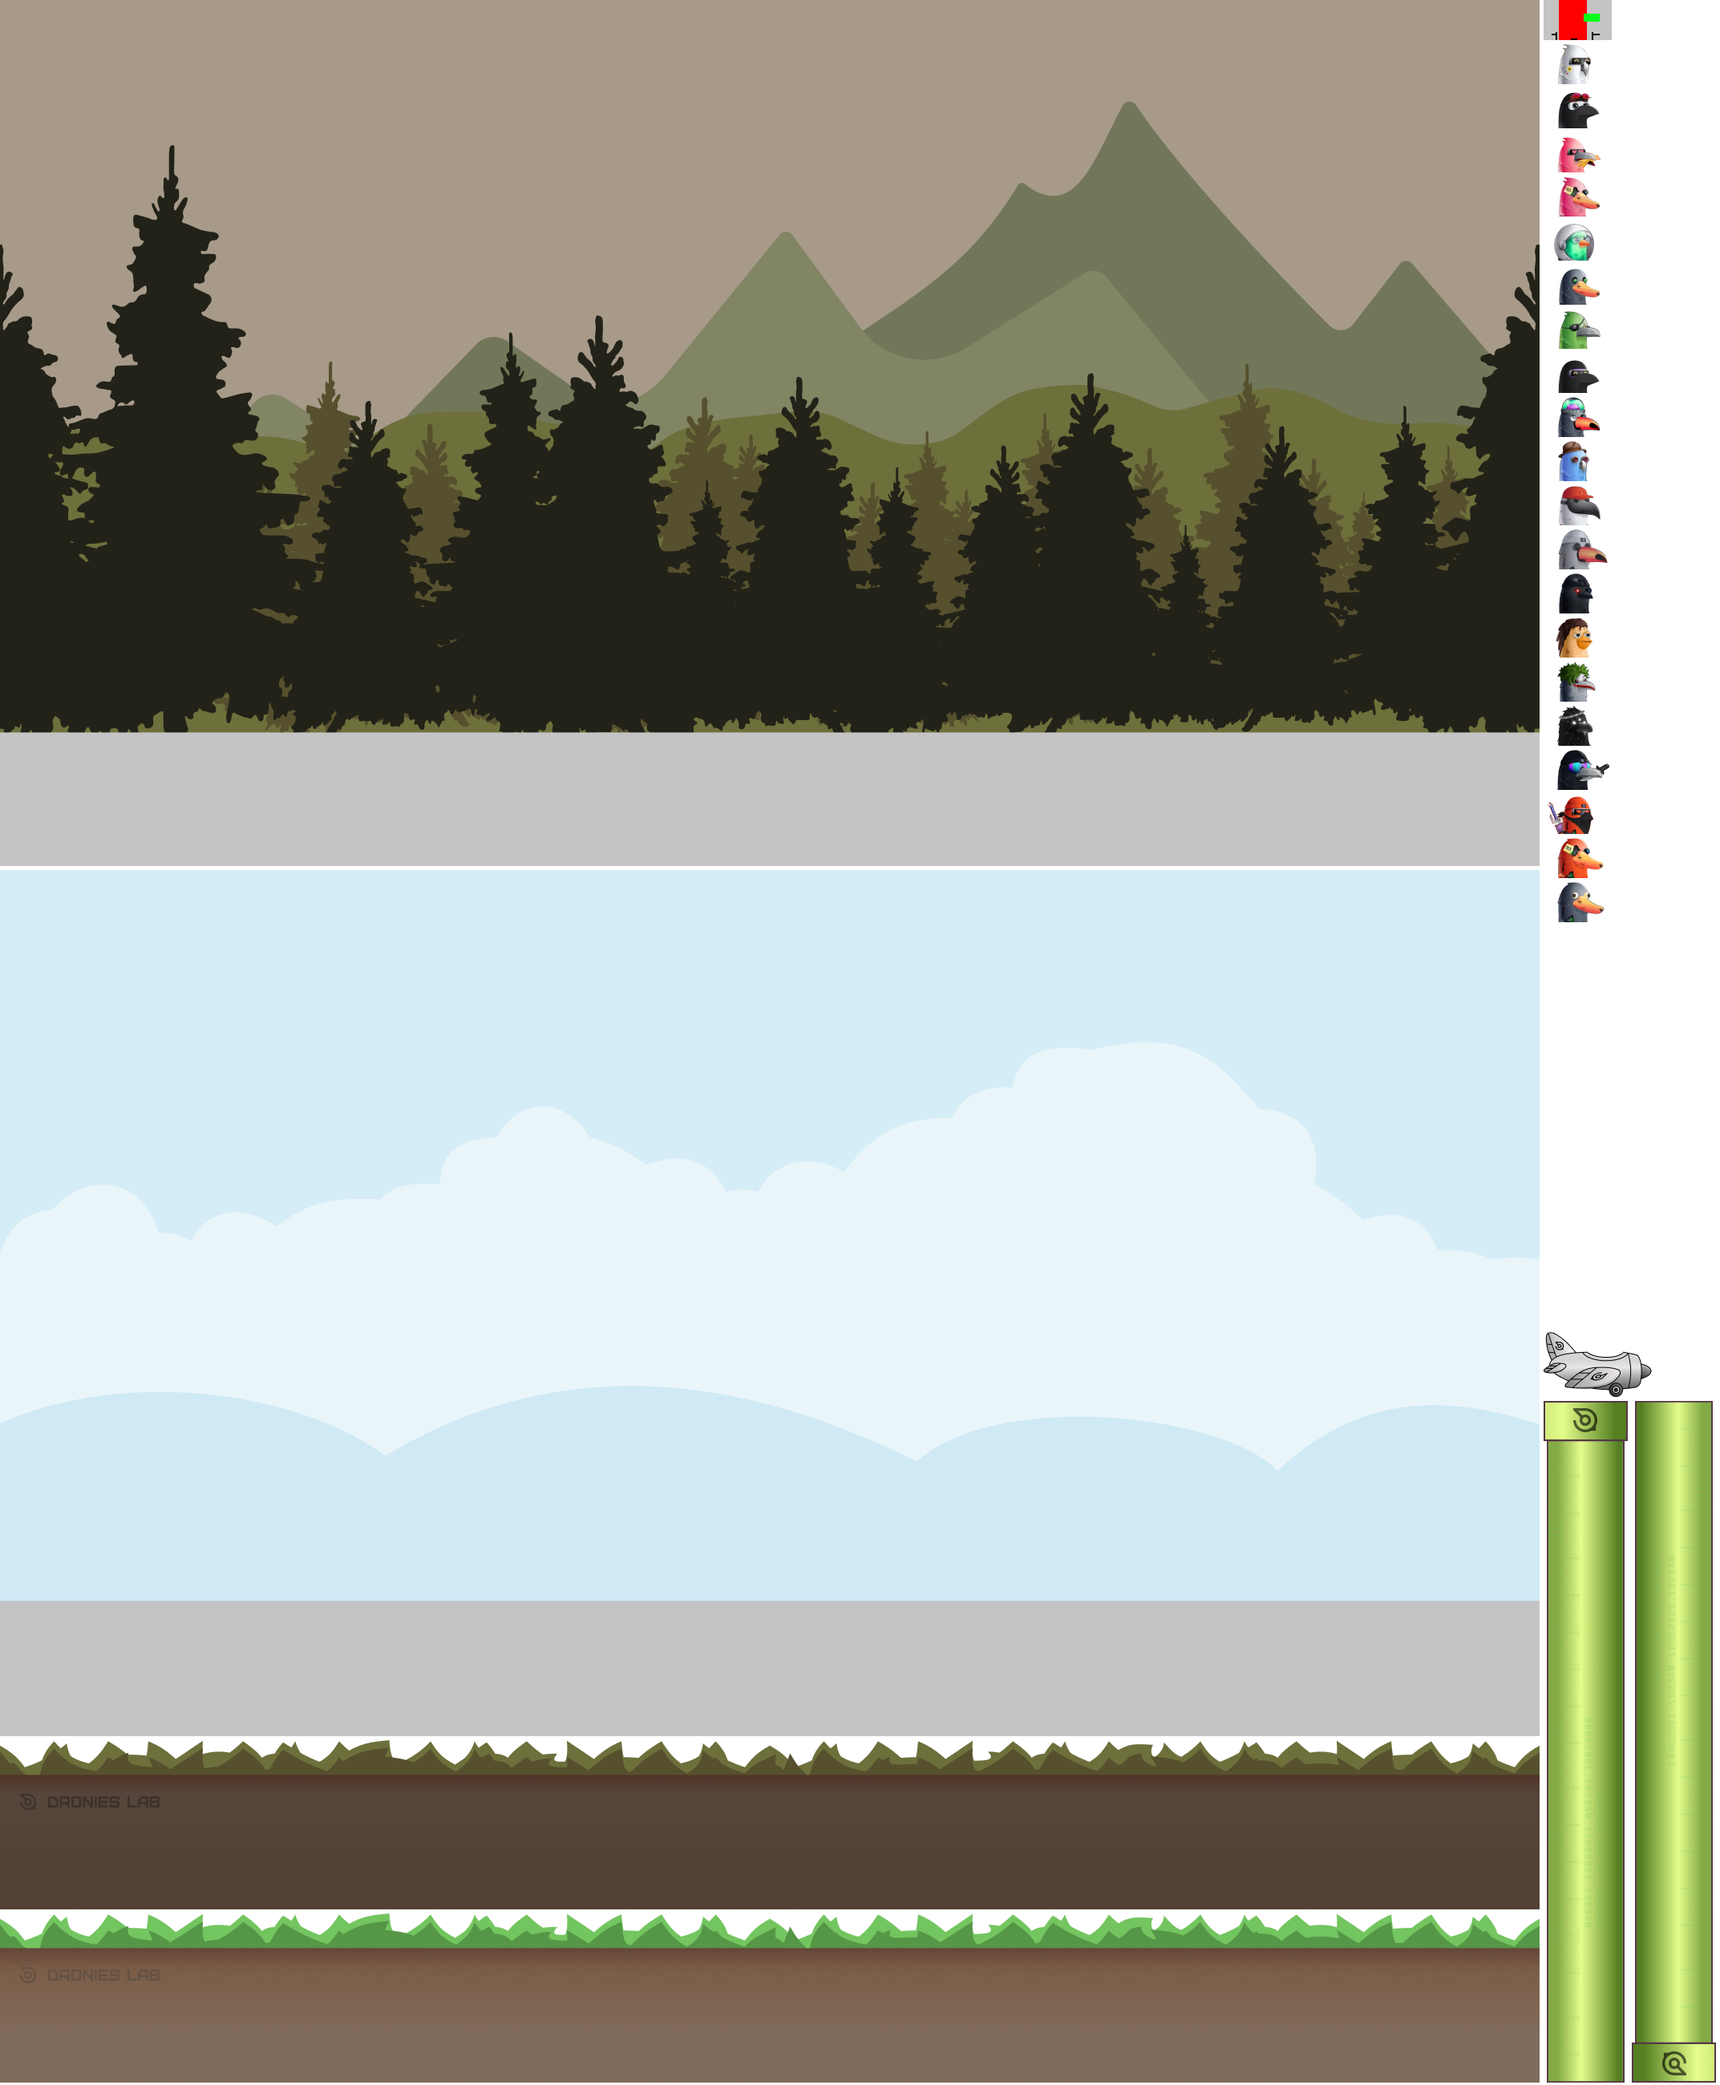
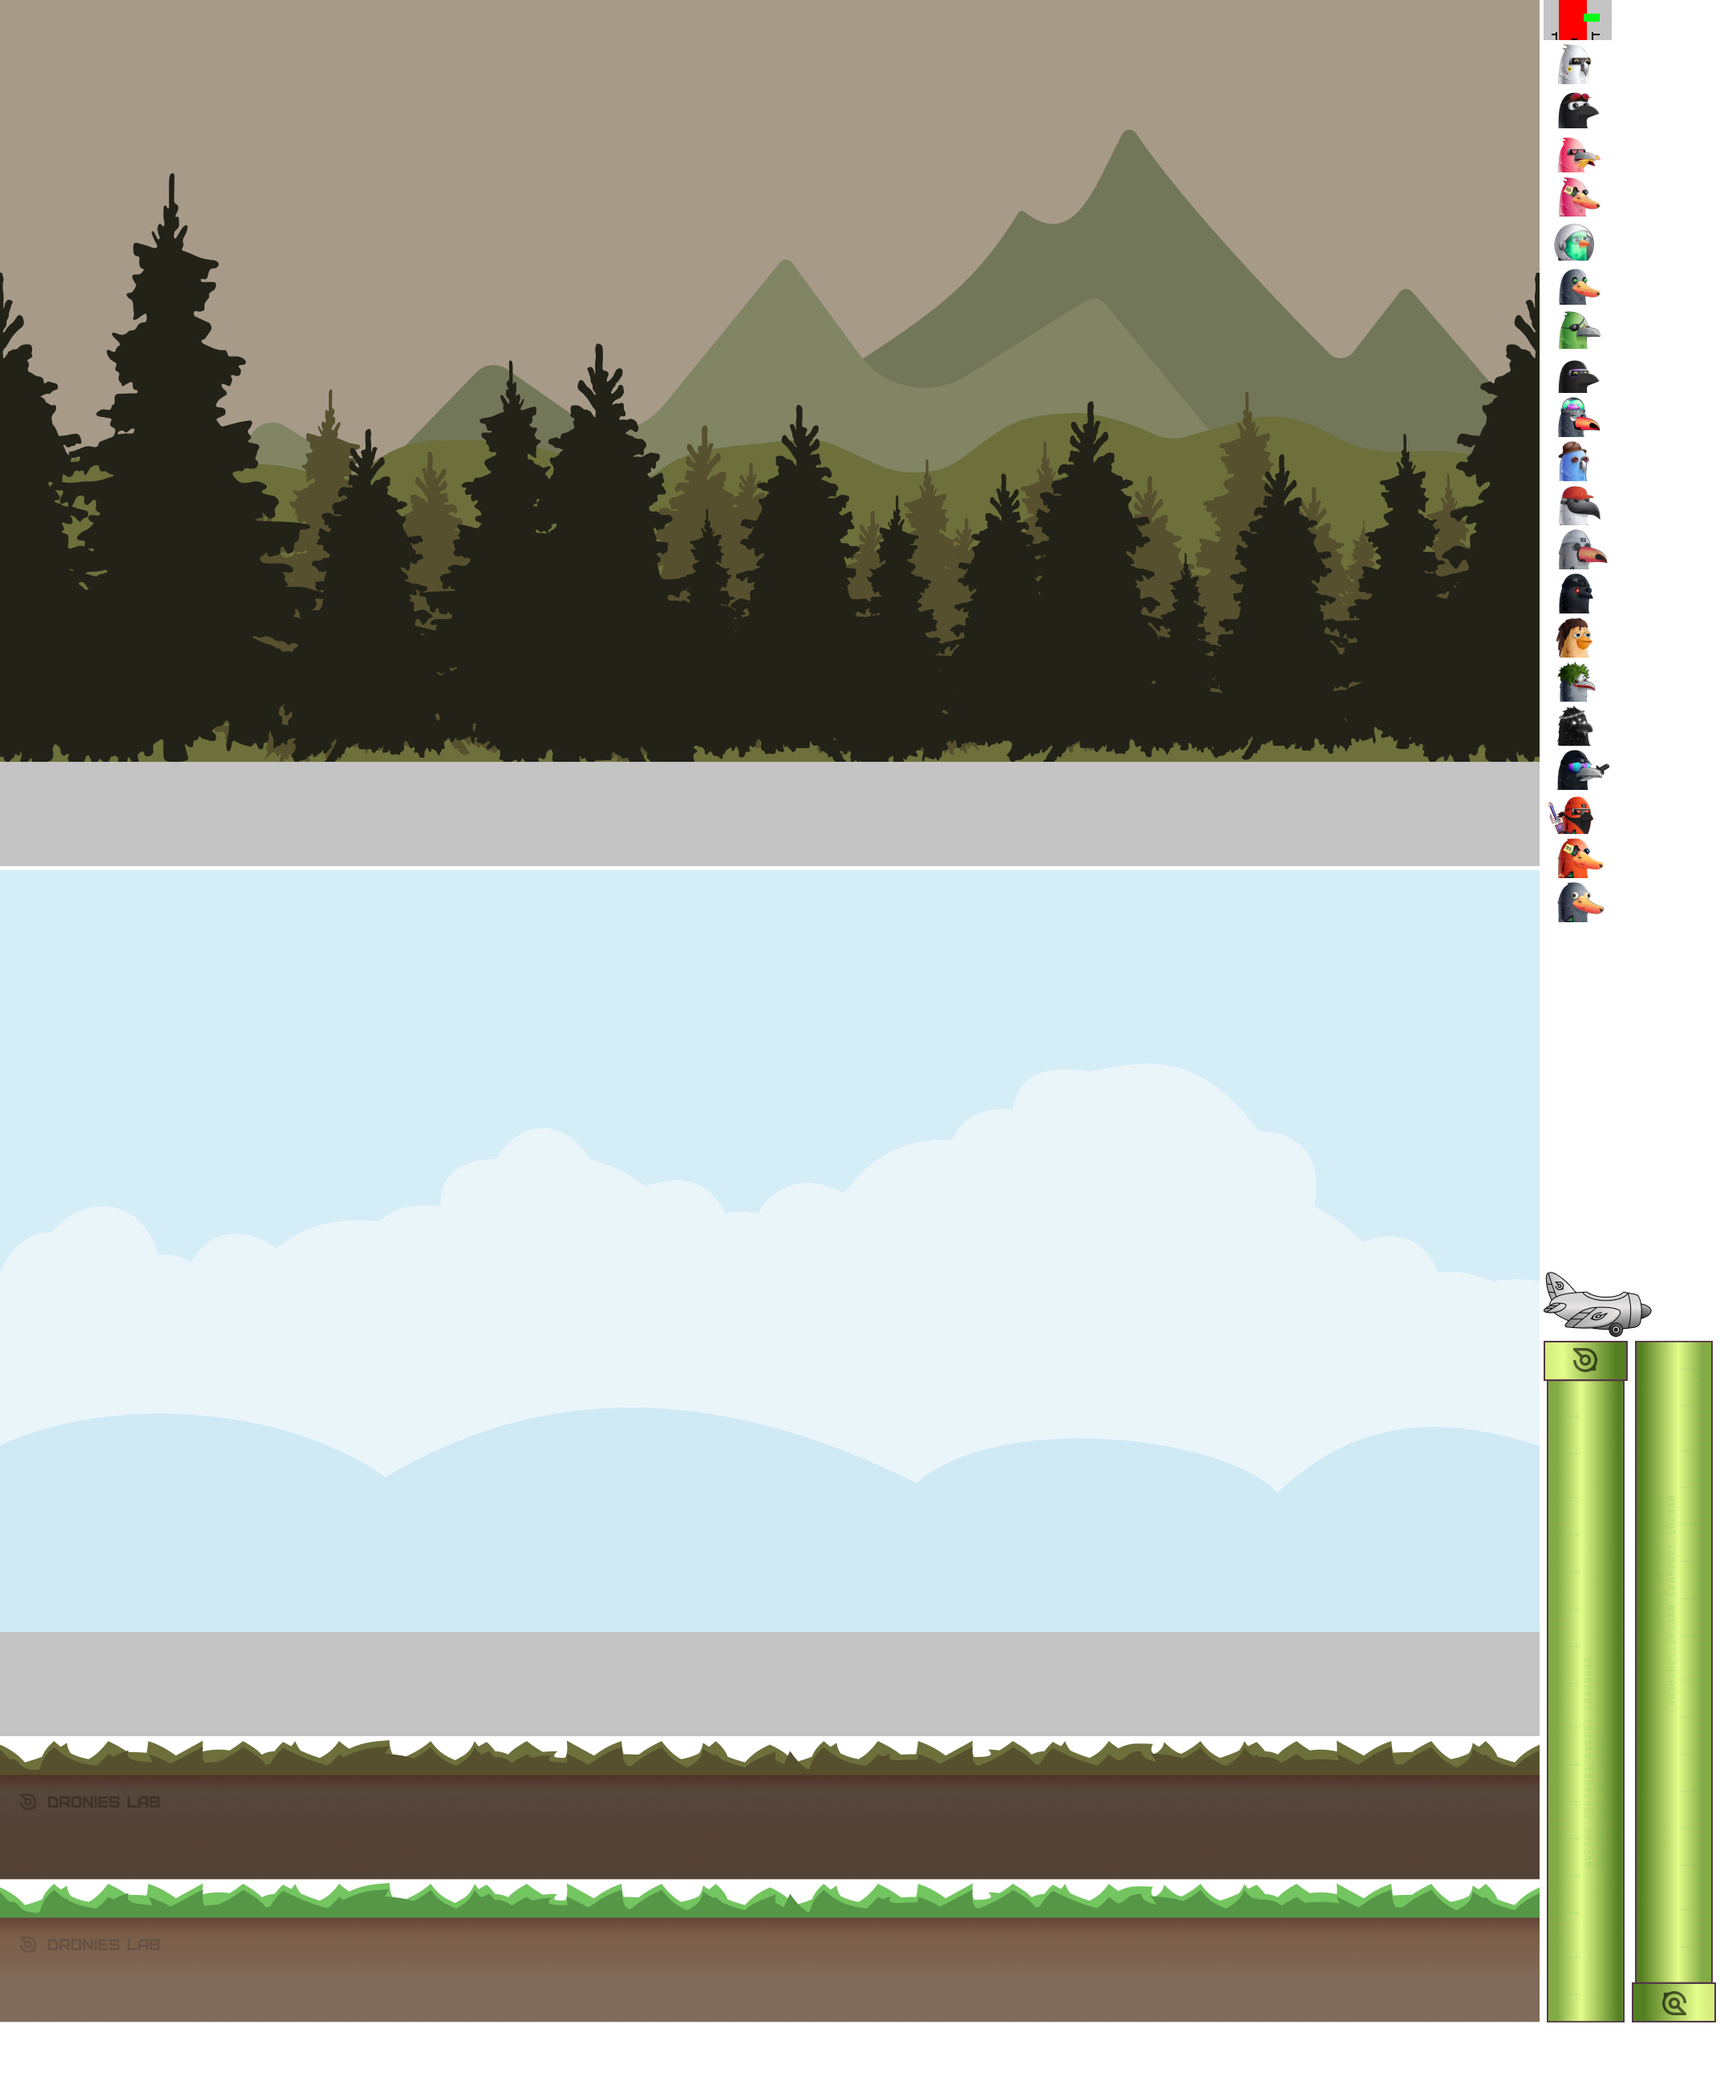
fixed typo

diff --git a/client/src/core/entities/flappydronie/game.actions.ts b/client/src/core/entities/flappydronie/game.actions.ts
@@ -14,7 +14,7 @@ import {
   BACKGROUND_POSITION,
   BACKGROUNDS,
   BIRD,
-  BIRD_POSITION,
+  BIRD_DEFAULT_POSITION,
   CANVAS_DIMENSIONS,
   FOREGROUND_POSITION,
   FOREGROUNDS,
@@ -29,7 +29,8 @@ import {
 } from './game.controller';
 
 export const startGame = () => {
-  if (STATUS.value !== GAME_STATUS.SPLASH) BIRD.set(new Bird(BIRD_POSITION, 0));
+  if (STATUS.value !== GAME_STATUS.SPLASH)
+    BIRD.set(new Bird(BIRD_DEFAULT_POSITION.x, BIRD_DEFAULT_POSITION.y));
 
   STATUS.set(GAME_STATUS.PLAYING);
 };
@@ -49,7 +50,7 @@ export const endGame = () => {
 };
 
 export const resetGame = () => {
-  BIRD.set(new Bird(BIRD_POSITION, 0));
+  BIRD.set(new Bird(BIRD_DEFAULT_POSITION.x, BIRD_DEFAULT_POSITION.y));
   FRAMES.reset();
   PIPES.reset();
   STATUS.set(GAME_STATUS.SPLASH);
@@ -150,7 +151,7 @@ export const updatePipes = (pipes: Pipe[]) => {
     if (calculateCollisionWithPipe(pipe)) endGame();
 
     // Calculate Score
-    if (pipe.cx <= BIRD_POSITION && !pipe.scored && pipe.type === 'N') {
+    if (pipe.cx <= BIRD_DEFAULT_POSITION && !pipe.scored && pipe.type === 'N') {
       SCORE.set((v) => v + 1);
       pipe.scored = true;
     }
@@ -192,7 +193,7 @@ export const calculateCollisionWithPipe = (pipe: Pipe): boolean => {
 
 export const generatePipeSet = () => {
   const minHeight = 140;
-  const variationRange = 180;
+  const variationRange = 200;
   const randomYPos =
     CANVAS_DIMENSIONS.value.height -
     (pipe_h + fg_h + minHeight + variationRange * Math.random());

diff --git a/client/src/core/entities/flappydronie/sprites/sprites.ts b/client/src/core/entities/flappydronie/sprites/sprites.ts
@@ -15,16 +15,16 @@ export const foregrounds = Array.from(Array(2)).map((v, i) =>
   Sprite({
     filename: sheet,
     x: 0,
-    y: 2170 + i * (211 + 5),
+    y: 2170 + i * (173 + 5),
     width: 1920,
-    height: 211,
+    height: 173,
   }),
 );
 
 export const plane = Sprite({
   filename: sheet,
   x: 1925,
-  y: 1662,
+  y: 1587,
   width: 134,
   height: 80,
 });
@@ -42,7 +42,7 @@ export const dronies = Array.from(Array(21)).map((v, i) =>
 export const pipe_n = Sprite({
   filename: sheet,
   x: 1925,
-  y: 1747,
+  y: 1672,
   width: 105,
   height: 850,
 });
@@ -50,7 +50,7 @@ export const pipe_n = Sprite({
 export const pipe_s = Sprite({
   filename: sheet,
   x: 2035,
-  y: 1747,
+  y: 1672,
   width: 105,
   height: 850,
 });

diff --git a/client/src/core/entities/flappydronie/game.controller.ts b/client/src/core/entities/flappydronie/game.controller.ts
@@ -20,7 +20,7 @@ export enum GAME_STATUS {
 }
 
 // Configuration
-export const BIRD_POSITION = 60;
+export const BIRD_DEFAULT_POSITION = { x: 60, y: 0 };
 
 // General
 export const PLAY_ONLINE = createState(false);
@@ -43,7 +43,9 @@ export const GAP = createState(120);
 
 // Objects
 export const PIPES = createState<Pipe[]>([]);
-export const BIRD = createState<Bird>(new Bird(BIRD_POSITION, 0));
+export const BIRD = createState<Bird>(
+  new Bird(BIRD_DEFAULT_POSITION.x, BIRD_DEFAULT_POSITION.y),
+);
 BIRD.watch((v) => {
   if (PLAY_ONLINE.value)
     socketService.socket?.emit('bird', { cx: v.cx, cy: v.cy });

diff --git a/client/src/core/entities/flappydronie/sprites/logic/index.ts b/client/src/core/entities/flappydronie/sprites/logic/index.ts
@@ -1,7 +1,7 @@
-import { Background } from './background';
-import { Base } from './base';
-import { Bird } from './bird';
-import { Foreground } from './foreground';
-import { Pipe } from './pipe';
+import { Background } from './Background';
+import { Base } from './Base';
+import { Bird } from './Bird';
+import { Foreground } from './Foreground';
+import { Pipe } from './Pipe';
 
 export { Background, Base, Bird, Foreground, Pipe };

diff --git a/client/src/core/entities/flappydronie/utils/FpsController.ts b/client/src/core/entities/flappydronie/utils/FpsController.ts
@@ -1,3 +1,5 @@
+// TODO https://gafferongames.com/post/fix_your_timestep/
+
 // https://stackoverflow.com/questions/19764018/controlling-fps-with-requestanimationframe
 export class FpsController {
   public config: FpsControllerConfig;

diff --git a/client/src/core/entities/flappydronie/sprites/logic/Bird.ts b/client/src/core/entities/flappydronie/sprites/logic/Bird.ts
@@ -1,4 +1,4 @@
-import { Base } from './base';
+import { Base } from './Base';
 
 export class Bird extends Base {
   public velocity: number;

diff --git a/client/src/core/entities/flappydronie/sprites/logic/Pipe.ts b/client/src/core/entities/flappydronie/sprites/logic/Pipe.ts
@@ -1,4 +1,4 @@
-import { Base } from './base';
+import { Base } from './Base';
 
 export class Pipe extends Base {
   public type: 'S' | 'N';

diff --git a/client/src/core/entities/flappydronie/sprites/logic/Background.ts b/client/src/core/entities/flappydronie/sprites/logic/Background.ts
@@ -1,4 +1,4 @@
-import { Base } from './base';
+import { Base } from './Base';
 
 export class Background extends Base {
   public skin = 0;

diff --git a/client/src/core/entities/flappydronie/sprites/logic/Foreground.ts b/client/src/core/entities/flappydronie/sprites/logic/Foreground.ts
@@ -1,4 +1,4 @@
-import { Base } from './base';
+import { Base } from './Base';
 
 export class Foreground extends Base {
   public skin = 0;
